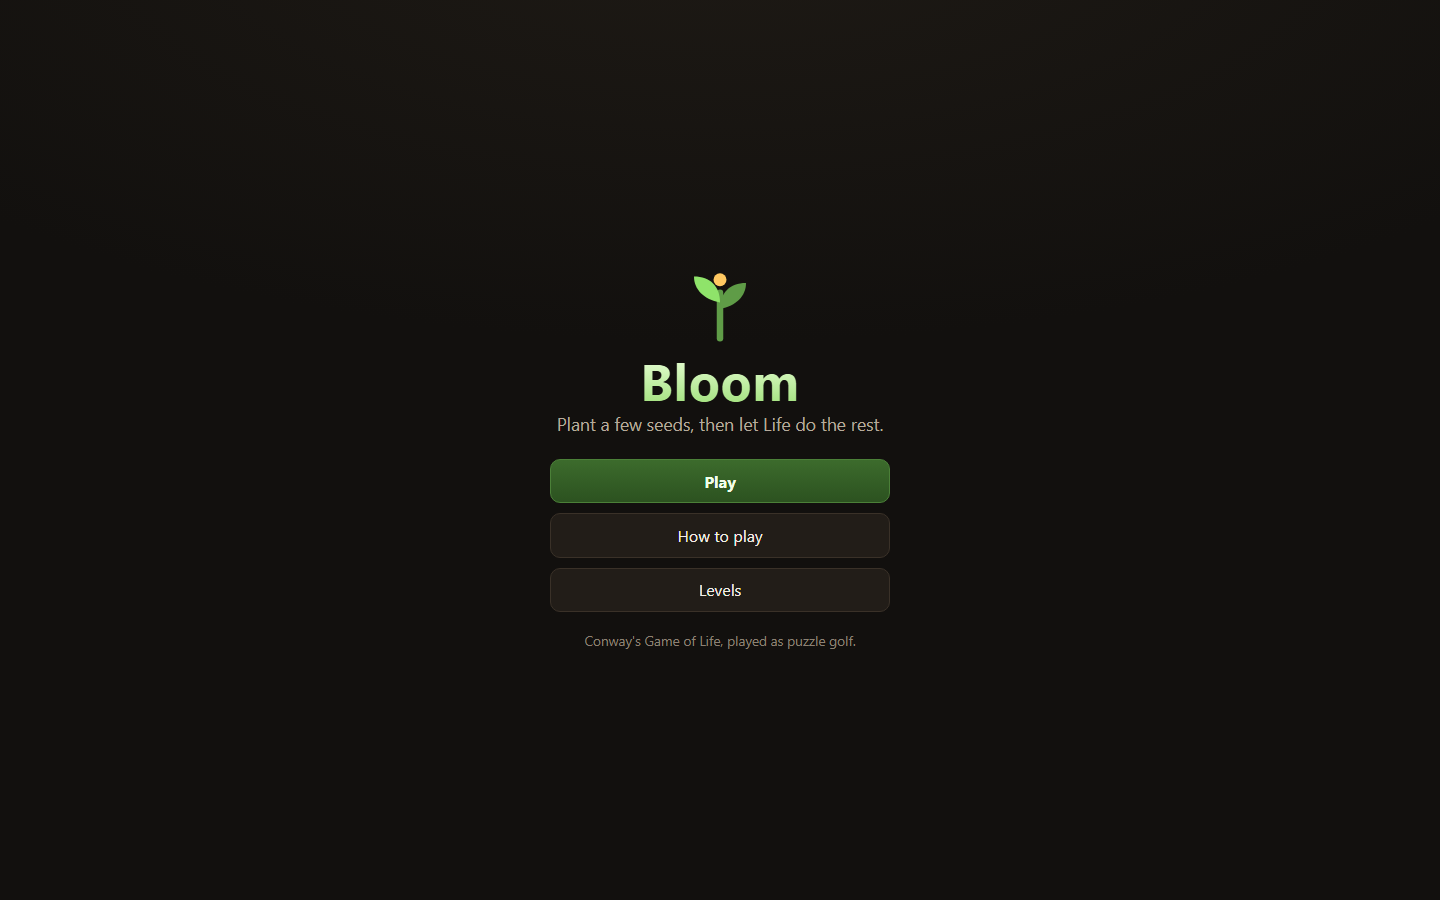
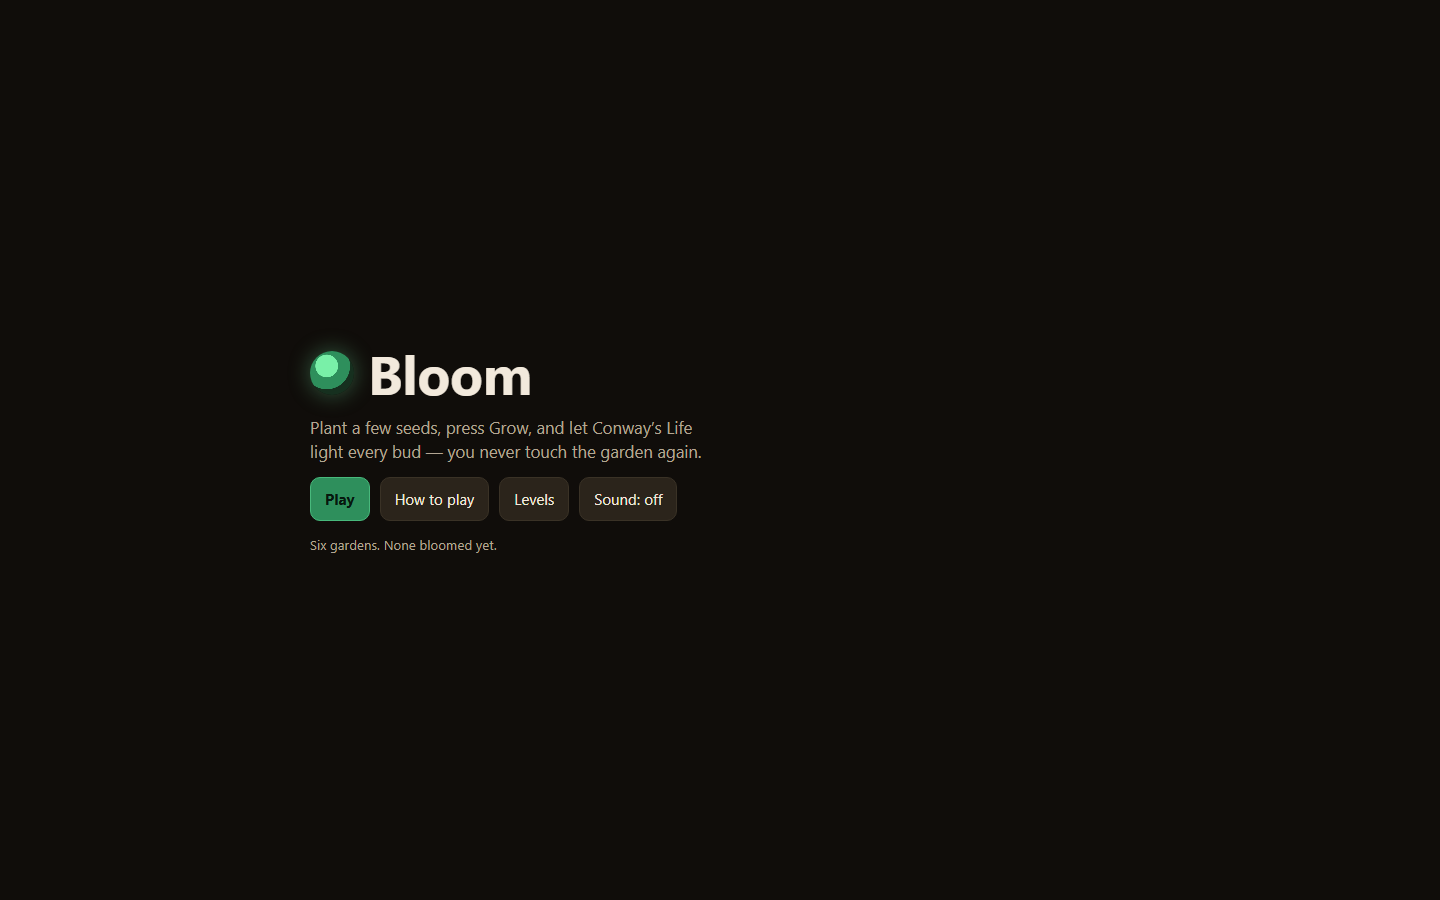
Swap FINAL/bloom to the r3 build: pattern primer, readable board
Prompt and build swapped as a pair and verified byte-identical to the raw run.
Level briefs now name the pattern they want in plain words, a Patterns panel
with live mini-grids is one tap away during play, and the board grid finally
reads against the background. 25/25 in isolation, no console errors, no
horizontal scroll at 375 or 1280.

Unjudged — REPORT.md says so and says to play it before submitting.

diff --git a/FINAL/bloom/prompt.md b/FINAL/bloom/prompt.md
@@ -15,107 +15,123 @@ Puzzle golf on a cellular automaton: two lines of rules, and a solution space no
 
 ## 2. Rules — implement exactly these, they are the specification
 
-- **Grid.** Bounded, 12x12 up to 16x16. Everything outside the grid is permanently dead — no wrapping.
-- **Life.** Standard B3/S23: a dead cell with exactly three live neighbours becomes alive; a live cell with
-  two or three live neighbours survives; everything else dies. All eight neighbours count. Every cell
-  updates simultaneously from the previous generation — compute into a new buffer, never in place.
-- **Planting.** Before growing, click or tap any cell to toggle a seed. A level gives you **at most N
-  seeds** (the par) and marks some cells as **stone**: stone cells can never be seeded, but they take part
-  in Life normally. Seeding is refused, visibly, when you are out of seeds or the cell is stone.
-- **Growing.** Grow runs generation by generation, roughly four per second, up to the level's generation
-  limit. Step advances exactly one. Pause holds. Reset returns to your planting, seeds intact, so you can
-  adjust rather than start over — this matters, make it one click.
-- **Winning.** The instant a generation has every bud alive simultaneously, you win — freeze the board and
-  celebrate. Extra live cells elsewhere are fine; the buds are the only requirement.
-- **Losing.** The generation limit passes without that happening. Do not just say "failed": report the
-  best moment — "best: 3 of 4 buds, at generation 11" — and offer Retry with the seeds still in place.
-- **Score.** Seeds used and generations taken; fewer of each is better. Keep a per-level best.
-- **Hint.** Reveals one cell of the reference solution, once per press, at a marked score penalty. Cap it,
-  show how many remain, and never let it reveal a cell the player has already planted.
+- **Grid.** Bounded, 12x12 up to 16x16. Everything outside it is permanently dead — no wrapping.
+- **Life.** B3/S23 on all eight neighbours: three live neighbours births a dead cell, two or three keeps a
+  live one alive, everything else dies. Step into a fresh buffer, never in place.
+- **Planting.** Click or tap a cell to toggle a seed. A level allows **at most N seeds** (the par) and
+  marks some cells **stone** — stone can never be seeded but takes part in Life normally. Seeding is
+  refused, visibly, when you are out of seeds or the cell is stone.
+- **Growing.** Grow runs about four generations a second up to the level's limit. Step advances one.
+  Pause holds. Reset returns to your planting with the seeds intact, so you can adjust one cell rather
+  than start over — one click, and it matters.
+- **Winning.** The instant one generation has every bud alive at once, freeze the board and celebrate.
+  Extra live cells elsewhere are fine. **The check starts at generation 1**, after Grow has run at
+  least one step — planting straight onto the buds and declaring victory is not a solution, and
+  without this every level with more seeds than buds has a degenerate answer.
+- **Losing.** The limit passes without that happening. Never just say "failed" — report the best moment
+  ("best: 3 of 4 buds, at generation 11") and offer Retry with the seeds still in place.
+- **Score.** Seeds used and generations taken, fewer better, with a per-level best.
+- **Hint.** Reveals one cell of the reference solution at a marked score penalty. Cap it, show how many
+  remain, and never reveal a cell already planted. Scale the cap to the size of the solution — a level
+  needing ten precise cells cannot be hinted with three.
+- **Pattern primer — this is what makes the game learnable.** A player who does not know Life's small
+  vocabulary is not stuck on the puzzle, they are stuck on the alphabet. Ship a named catalogue of the
+  patterns your levels use — at least a still life, an oscillator and a spaceship — each with a plain
+  one-liner for what it *does* ("never changes", "flips every step", "walks diagonally, one cell every
+  four"). Draw each as a small grid **animated by your own Life engine**, never a hand-drawn loop, so the
+  primer cannot disagree with the game. Put it in How to play *and* one tap away during play, as a
+  **Patterns** button beside Hint. Reference only: opening it costs nothing and stamps nothing.
+- **Name the wanted pattern in each level's brief**, in plain words, before any hint is spent — "this one
+  wants something that walks". A stuck player should learn the vocabulary, not guess coordinates.
 
-**Design every level backwards, and this is not optional:** pick a legal seed pattern of at most N cells,
-run your own Life implementation forward, look at the live cells at some generation G, and take a subset of
-them as the buds. This guarantees the level is solvable, hands you the generation limit (a comfortable
-margin above G) and hands you the reference solution the Hint needs. Verify each finished level by running
-its reference solution through the shipped game logic. Do not ship a level you have not seen solved.
-Delete any scratch files afterwards.
+**Design every level backwards, and this is not optional:** choose a legal seed of at most N cells, run
+your own Life forward, and take a subset of the live cells at some generation G as the buds. That
+guarantees solvability, hands you the generation limit (a comfortable margin above G) and hands you the
+reference solution the Hint needs. Then verify each level by running its reference solution through the
+**shipped** game logic. Never ship a level you have not seen solved. Delete scratch files afterwards.
 
 **Six levels** in this teaching order — you invent the exact boards:
-1. Three buds in a row, two seeds spare. Teaches planting and Grow — a blinker will do it.
-2. Buds that a glider must travel to. Teaches that patterns move.
+1. Three buds in a row, two seeds spare. A blinker does it — teaches planting and Grow.
+2. Buds a glider must travel to. Teaches that patterns move.
 3. Buds reachable only if two small patterns collide.
-4. Stone cells appear and block the obvious route.
-5. A tight par: exactly the seed count needed, no spare.
-6. The finale — a longer run, two clusters that must arrive in step.
+4. Stone appears and blocks the obvious route.
+5. A tight par: exactly the seeds needed, none spare.
+6. The finale — a longer run, two clusters arriving in step.
+
+If a level needs a precise multi-cell construction, its hints must be able to get a stuck player there.
 
 ## 3. Screens and states — all of them must exist and be reachable
 
-Title (name, one-line hook, Play, How to play, Levels) → How to play (the two Life rules shown as three
-tiny animated CSS grids, not a wall of text) → Level select (locked levels visibly locked, best score or an
-em-dash when never played) → Planting → Growing → Paused → Solved (seeds, generations, best, Next / Retry)
-→ Out of generations (best-moment report, Retry / Back) → All levels complete (a real ending screen).
-A persistent status bar shows level, seeds left, generation of limit, and buds currently lit.
+Title (name, one-line hook, Play, How to play, Levels) → How to play (the two Life rules and the pattern
+primer, all as small live grids running the real engine, not a wall of text) → Level select (locked levels visibly locked, best score or an
+em-dash when never played) → Planting → Growing → Paused → Solved (seeds, generations, best,
+Next / Retry) → Out of generations (best-moment report, Retry / Back) → All levels complete (a real
+ending screen). A status bar during play shows level, seeds left, generation of limit, and buds lit.
 
 ## 4. Controls
 
-Mouse, touch and keyboard all complete. Use **pointer events** so dragging across cells to plant several
-works identically with a finger and a mouse; set `touch-action: none` on the board. Keyboard: arrows move a
-visible cursor, Enter or Space toggles a seed, G grows, S steps, R resets to your planting, Esc pauses.
-Every action also exists as a visible on-screen button. Tap targets at least 44px.
+Pointer, touch and keyboard all complete. Use **pointer events** so dragging across cells to plant several
+works the same with a finger and a mouse; `touch-action: none` on the board. Keyboard: arrows move a
+visible cursor, Enter or Space toggles a seed, G grows, S steps, R resets, H hints, Esc pauses. Every
+action also has a visible on-screen button, and every shortcut is listed where the player can find it.
+Tap targets at least 44px.
 
 ## 5. Hard technical constraints
 
-- Exactly one file: `index.html`, with all CSS and JS inline in it.
-- **Zero network.** No CDN, no web fonts, no images, no audio files, no `fetch`/`XMLHttpRequest`/WebSocket,
-  no `import`. Do not reference any `http://` or `https://` URL anywhere. Use a system font stack.
+- One file, all CSS and JS inline. No build step.
+- **Zero network**: no CDN, web fonts, images, audio files, `fetch`/`XMLHttpRequest`/WebSocket or
+  `import`, and no `http://` or `https://` URL anywhere. System font stack.
 - **No `<script type="module">`** — modules are blocked under `file://`. One plain inline script.
-- All graphics drawn in code: CSS, DOM and inline SVG. Build the grid as a CSS Grid of elements, not a
-  canvas — it stays crisp, responsive and accessible. Sparing emoji are fine; no other characters as art.
-- Drive the generation clock with `setInterval` or a `requestAnimationFrame` loop that you **stop** on
-  pause, win, loss and screen change. No orphaned timers — leaking one is the classic way this game breaks.
-- **Zero console errors or warnings** during a whole playthrough.
-- Persist best scores and progress in `localStorage` under one namespaced key, every access wrapped in
-  `try`/`catch`. Under `file://` storage can be unavailable or throw — the game must stay **fully
-  playable** in that case, silently falling back to in-memory state. Treat malformed or foreign stored
-  data as absent rather than trusting it.
-- No audio by default. If you add sound, make it generated WebAudio behind a toggle that is **off** until
-  the player turns it on, and never let it throw.
+- Every graphic drawn in code: CSS, DOM, inline SVG. The grid is a CSS Grid of elements, not a canvas —
+  it stays crisp, responsive and accessible.
+- Stop the generation clock on pause, win, loss and every screen change. A leaked timer is the classic
+  way this game breaks.
+- **Zero console errors or warnings** in a whole playthrough.
+- Persist progress in `localStorage` under one namespaced key, every access wrapped in `try`/`catch`.
+  Storage can be unavailable or throw under `file://`; the game must stay **fully playable**, falling
+  back to memory. Treat malformed or foreign stored data as absent.
+- No audio unless it is generated WebAudio behind a toggle that starts **off** and cannot throw.
 
 ## 6. Design and accessibility — this is scored
 
-One coherent palette driven by CSS custom properties — a dark soil background, one luminous hue for living
-cells, a distinct outlined treatment for buds so a lit bud and an unlit bud are told apart by **shape as
-well as colour**, and a flat muted stone. Living cells should feel alive: a short scale-in as they are
-born, a fade as they die, both suppressed under reduced motion. Generous spacing, one readable size ramp.
+One palette in CSS custom properties: dark soil, one luminous hue for living cells, flat muted stone, and
+buds outlined so a lit and an unlit bud differ in **shape as well as colour**. **The board is the screen
+the player never leaves — give it real contrast**: an empty cell must read clearly against the soil and an
+unplanted seed must be obvious at 375px, or the mechanic you are selling is invisible. Cells scale in as
+they are born and fade as they die, both dropped under reduced motion.
 
-- Responsive from 320px to 1920px. The board scales to fit; **never any horizontal scrolling**, and on a
-  375x667 phone the whole game — board, status bar and controls — fits without the page scrolling.
-- Respect `prefers-reduced-motion: reduce`: drop every transition and animation, keep every state change.
-- Real `<button>` elements, visible focus outlines, sensible labels, and an ARIA live region announcing
-  generation milestones, refused plantings, wins and losses.
+- Responsive 320px to 1920px, never a horizontal scroll. At 375x667 the whole game fits without the page
+  scrolling. On a wide screen use the width — board beside the status and controls, not a phone-shaped
+  column stranded in the middle.
+- `prefers-reduced-motion: reduce` drops every transition and animation and keeps every state change.
+- Real `<button>`s, visible focus outlines, an ARIA live region for refusals, milestones, wins and losses.
+  Modals trap Tab and leave the background out of the tab order.
+- Do not let the win overlay cover the board. The player just engineered that pattern; let them see it.
 
 ## 7. Verify before you declare it finished
 
-If you can run a browser or headless browser, open the file from `file://`, read the console, and play.
-If you cannot, re-read your finished file top to bottom and trace each path by hand. Either way, walk all
-of these and fix what you find:
+If you can drive a browser, open the file from `file://`, read the console and play it. If you cannot,
+re-read the finished file top to bottom and trace each path by hand. Either way, walk these and fix what
+you find:
 
-1. First ever load, empty storage: no `undefined`, no `NaN`, no empty boxes on screen.
-2. Every screen in section 3 reachable, and every button on it does something.
-3. Each of the six levels solved by its reference solution, inside the shipped game.
-4. Life is correct: a blinker oscillates with period 2, a block stays still, a glider moves diagonally and
-   dies cleanly at the wall.
-5. Refused input: seed a stone cell, seed with zero seeds left, plant during Grow.
-6. Grow with zero seeds planted; Reset mid-grow; Step past the limit; pause, resume, leave and return —
-   no timer keeps running in the background.
-7. Reload mid-game, then reload with storage disabled entirely.
-8. 375x667 and 1440x900: no horizontal scroll, nothing clipped or overlapping.
+1. First load with empty storage, then a reload mid-game, then a reload with storage disabled — no
+   `undefined`, no `NaN`, no empty boxes, still playable.
+2. Every screen reachable, every button does something.
+3. Every level solved by its reference solution inside the shipped game.
+4. Every primer pattern behaves as its one-liner claims when stepped by the shipped engine, and the
+   Patterns panel opens and closes from both How to play and the play screen.
+5. Life is right: blinker period 2, block still, glider travels diagonally and dies cleanly at the wall.
+6. Refusals: stone, zero seeds left, planting during Grow.
+7. Grow with nothing planted; Reset mid-grow; Step past the limit; pause, resume, leave and return with
+   no timer still running.
+8. 375x667 and 1440x900: nothing clipped, overlapping or scrolling sideways.
 9. Re-read for undeclared variables, use-before-definition, and listeners added in a loop.
 
-## 8. Final checklist — tick every line, fix anything unticked, then stop
+The back half must be winnable by someone who has never seen Life before: between the primer, the named
+brief and the hints, a stuck player always has a next thing to try.
 
-☐ one file `index.html`, nothing else in the directory ☐ no `http`/`https` reference anywhere ☐ no modules
-☐ opens from `file://` with an empty console ☐ every level designed backwards from a verified seed and
-solved in the shipped build ☐ B3/S23 correct on a bounded grid ☐ no orphaned timers ☐ every screen and
-button works ☐ storage failure is survivable ☐ no horizontal scroll at 320px ☐ reduced motion respected
-☐ pointer, keyboard and touch all complete
+## 8. Before you stop
+
+Two things decide whether this shipped, and neither shows in the code: **every level was designed
+backwards from a seed you actually ran forward, and you watched that seed win inside the finished
+build.** If either is untrue of any level, the game is broken however good it looks. Fix it, then stop.

diff --git a/FINAL/REPORT.md b/FINAL/REPORT.md
@@ -2,9 +2,11 @@
 
 ## What to submit
 
-**Submit `bloom/`.** It scored highest (4.35 weighted), it is the only candidate whose two independent
-runs both scored above 4.2, and its prompt contains the single instruction that made every good build in
-this exercise good. `districts/` (4.25) is a defensible alternative if you prefer its look — it is the
+**Submit `bloom/`.** The build here is the **r3 revision, which has not been judged** — it replaced the
+4.35-scoring r2 build after the game proved hard to grasp on first contact. It adds a pattern primer and
+fixes three defects judges named against its predecessor. It is validated (25/25 in isolation) and
+verified by hand, but its score is unknown; the lineage it comes from scored 4.25 and 4.35, and the
+changes are all in the direction judges asked for. `districts/` (4.25) is a defensible alternative if you prefer its look — it is the
 better-looking game on a phone. `paradox-loop/` (3.75) should not be submitted; it is here because you
 asked for all three.
 
@@ -17,7 +19,7 @@ screenshots. Never my notes, never which candidate or round.
 
 | build | theme+runs | orig | UX | prompt | repro | **weighted** |
 |---|:--:|:--:|:--:|:--:|:--:|:--:|
-| **bloom** (`r1-bloom/run-2`) | 5 | 4 | 4 | 4 | 5 | **4.35** |
+| `r1-bloom/run-2` — *superseded by the r3 build now in `bloom/`* | 5 | 4 | 4 | 4 | 5 | **4.35** |
 | `r1-bloom/run-1` | 5 | 4 | 4 | 4 | 4 | 4.25 |
 | **districts** (`r1-districts/run-1`) | 5 | 4 | 4 | 4 | 4 | **4.25** |
 | `r1-districts/run-2` | 5 | 4 | 4 | 4 | 4 | 4.25 |
@@ -49,11 +51,16 @@ nothing checkable; telling it *how to know* produces levels that are provably so
   most familiar automaton in the room; gerrymandering puzzles are recognisable prior art; ghost-replay
   co-op is a known genre. Originality is 25 % of the score and **this is the ceiling on the whole entry**.
   Fixing it needs a different idea, not a better build.
-- **Bloom's board is too dim.** Confirmed visually in `bloom/play.png`: empty cells barely separate from
-  the background and an unplanted seed is hard to spot at phone width — on the one screen the player never
-  leaves. The judge called it the biggest weakness. The win overlay also covers the board you just built.
-- **Bloom's back half is hard.** Levels 3 and 6 need two exactly-positioned, exactly-phased gliders
-  against three hints. A player who does not already know Life patterns has no route from stuck to solved.
+- **Bloom's r3 build is unjudged.** Everything below it in this list was found by a judge; the r3 build
+  has only my own validation and a hand playthrough behind it. One blind judgement would settle whether
+  the primer moved UX and whether the longer prompt cost anything on economy.
+- **Bloom's prompt is now 9 580 characters against a 10 000 cap.** Compliant, but economy is part of the
+  20 % prompt score, and this is the least economical prompt in the exercise. The primer bullet is the
+  first thing to compress if that matters more than the feature.
+- ~~Bloom's board is too dim~~ and ~~the back half is unlearnable~~ were the two biggest complaints
+  against the previous build. Both are addressed in r3 — the board grid now reads clearly, each level
+  names the pattern it wants in plain words, and a Patterns panel is one tap away during play. Verified
+  visually in `bloom/play.png` and `bloom/patterns.png`.
 - **Districts is a phone that tolerates a desktop.** At 1440px it is a 640px column adrift in dead space.
   Its modals also do not trap focus.
 - **Paradox Loop ships a broken level.** My prompt says a door opens "while at least one plate of its
@@ -75,10 +82,10 @@ nothing checkable; telling it *how to know* produces levels that are provably so
    build from another.
 4. **Nothing here was hand-edited.** Every `index.html` is raw agent output. If you change so much as a
    character before submitting, the entry breaks the rules.
-5. **Bloom's prompt is 8 630 characters** against a 10 000 limit — compliant, but "úsporně" (economy) is
-   part of the 20 % prompt score, and every judge docked it for a closing checklist that restates earlier
-   sections. A revised, denser version exists at `candidates/r2-bloom/prompt.md` (8 351 chars, redundancy
-   removed, five defects addressed), but **its build was never judged**, so it is not what ships here.
+5. **Play Bloom yourself before submitting.** The r3 build has no blind judgement behind it — it was
+   swapped in because the game was hard to grasp, and the fix is the kind of thing you should confirm by
+   feel rather than by checklist. Open `bloom/index.html`, hit Play, and see whether level 1's brief and
+   the Patterns panel actually get you moving.
 
 ## What was left undone
 

diff --git a/FINAL/meta.md b/FINAL/meta.md
@@ -17,12 +17,12 @@ Measured wall-clock, single agent per run.
 | game | run used | duration | notes |
 |---|---|---|---|
 | paradox-loop | attempt 4 | **51 min** | 98 tool calls. Inside the contest's 60-minute cap, but not by much. |
-| bloom | run 2 | not recorded | The agent was stopped by me while still in its self-verification phase; the file it had already written is what ships. |
+| bloom | r3 run 1 | **51 min** | 139 tool calls. A clean, complete, unattended run — it finished on its own judgement. |
 | districts | run 1 | not recorded | Same — stopped during self-verification. |
 
-**Be straight about this on the form if asked**: the Bloom and Districts runs were interrupted by me
-partway through their own final checks, so their true unattended duration is unknown. Only
-paradox-loop has a clean, complete, measured run. None of the three was edited by hand afterwards.
+**Be straight about this on the form if asked**: the Districts run was interrupted by me partway through
+its own final checks, so its true unattended duration is unknown. Bloom and paradox-loop both have clean,
+complete, measured runs. None of the three was edited by hand afterwards.
 
 ## Verification tooling (mine, not the agent's)
 

diff --git a/FINAL/README.md b/FINAL/README.md
@@ -4,7 +4,7 @@
 here because they were asked for. Pick one before submitting — see `REPORT.md` for which and why.
 
 ```
-bloom/         prompt.md + index.html    weighted 4.35   ← highest scored
+bloom/         prompt.md + index.html    r3 build, unjudged  ← submit this
 districts/     prompt.md + index.html    weighted 4.25
 paradox-loop/  prompt.md + index.html    weighted 3.75
 ```
@@ -19,7 +19,7 @@ network. `play.png` in each folder shows the game running.
 
 | game | what you do |
 |---|---|
-| **bloom** | Plant a few seeds, press **Grow**, and Conway's Life runs. You win if one single generation has every bud alive at once. Six levels. |
+| **bloom** | Plant a few seeds, press **Grow**, and Conway's Life runs. You win if one single generation has every bud alive at once. Six levels, each naming the Life pattern it wants, plus a **Patterns** primer you can open at any time. |
 | **districts** | Carve a grid of Teal and Amber voters into equal connected districts so the *outnumbered* colour wins the council. Five levels. |
 | **paradox-loop** | Turn-based room you can't solve alone. **Rewind**, and your recorded past attempt replays beside you as a ghost. Six levels. |
 
